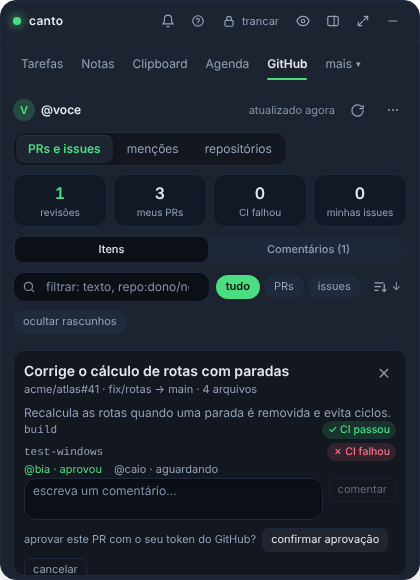
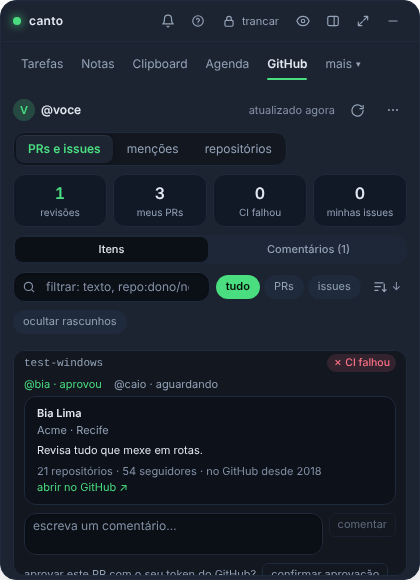
feat(github): perfil do autor e dos revisores no espiar
Claude-Session: https://claude.ai/code/session_01Cn6JQNpcvhqsGPNaPnYSfQ

Changed region(s): [[0.031, 0.6207, 0.9595, 0.9931], [0.7738, 0.5897, 0.9595, 0.6517], [0.8048, 0.8379, 0.9286, 0.869]]

diff --git a/src/features/forge/PrPeek.tsx b/src/features/forge/PrPeek.tsx
@@ -3,6 +3,7 @@ import { api, errText, type ForgeItem, type PrDetail, type PrReviewer } from "..
 import { t } from "../../i18n";
 import Skeleton from "../../components/Skeleton";
 import { CiPill } from "./ForgePills";
+import PersonCard from "./PersonCard";
 
 type Props = { item: ForgeItem; login: string; onClose: () => void };
 type Sent = "approve" | "comment";
@@ -23,6 +24,15 @@ export default function PrPeek({ item, login, onClose }: Props) {
   const [busy, setBusy] = useState(false);
   const [sent, setSent] = useState<Sent | null>(null);
   const [failed, setFailed] = useState("");
+  const [who, setWho] = useState<string | null>(null);
+  const person = (login: string, label: string) =>
+    login.endsWith("[bot]") ? (
+      <span>{label}</span>
+    ) : (
+      <button type="button" aria-pressed={who === login} aria-label={t("forge.peek.profileOf", { login })} onClick={() => setWho(who === login ? null : login)} className="canto-hit rounded-md hover:text-fg hover:underline">
+        {label}
+      </button>
+    );
 
   useEffect(() => {
     let live = true;
@@ -64,6 +74,7 @@ export default function PrPeek({ item, login, onClose }: Props) {
             {item.reference}
             {detail && ` · ${t("forge.peek.branches", { head: detail.head_branch, base: detail.base_branch })} · ${t("forge.peek.files", { n: detail.changed_files })}`}
           </p>
+          {item.author && <p className="m-0 text-[11px] text-muted">{t("forge.peek.by")} {person(item.author, `@${item.author}`)}</p>}
         </div>
         <button type="button" onClick={onClose} aria-label={t("forge.peek.close")} title={t("forge.peek.close")} className="canto-hit grid size-6 shrink-0 place-items-center rounded-md text-faint hover:text-fg">
           ✕
@@ -91,10 +102,11 @@ export default function PrPeek({ item, login, onClose }: Props) {
             {detail.reviewers.length === 0 && <li className="text-faint">{t("forge.peek.noReviewers")}</li>}
             {detail.reviewers.map((r) => (
               <li key={r.login} className={STATE[r.state].tone}>
-                @{r.login} · {t(STATE[r.state].label)}
+                {person(r.login, `@${r.login} · ${t(STATE[r.state].label)}`)}
               </li>
             ))}
           </ul>
+          {who && <PersonCard login={who} />}
           <div className="flex gap-1.5">
             <textarea
               value={text}

diff --git a/src/features/forge/PrPeek.test.tsx b/src/features/forge/PrPeek.test.tsx
@@ -121,3 +121,32 @@ test("a read-only token shows what to change and keeps the text", async () => {
   expect(within(panel).getByRole("alert").textContent).toContain("permissão de escrita");
   expect((within(panel).getByLabelText("comentário") as HTMLTextAreaElement).value).toBe("Oi");
 });
+
+test("the author and each reviewer open their profile card, and a second click closes it", async () => {
+  responses.github_profile = (args) =>
+    Promise.resolve({ login: String(args.login), name: `Nome de ${String(args.login)}`, bio: "", company: "Acme", location: "", public_repos: 3, followers: 1, since: 2020, url: `https://github.com/${String(args.login)}` });
+  const panel = await mount();
+  await act(async () => {
+    fireEvent.click(within(panel).getByRole("button", { name: "ver perfil de @ana" }));
+  });
+  for (let i = 0; i < 3; i++) await act(async () => {});
+  const card = within(panel).getByRole("region", { name: "perfil de @ana" });
+  expect(card.textContent).toContain("Nome de ana");
+  expect(card.querySelector("a")?.getAttribute("href")).toBe("https://github.com/ana");
+  await act(async () => {
+    fireEvent.click(within(panel).getByRole("button", { name: "ver perfil de @bia" }));
+  });
+  for (let i = 0; i < 3; i++) await act(async () => {});
+  expect(within(panel).queryByRole("region", { name: "perfil de @ana" })).toBeNull();
+  expect(within(panel).getByRole("region", { name: "perfil de @bia" })).toBeTruthy();
+  fireEvent.click(within(panel).getByRole("button", { name: "ver perfil de @bia" }));
+  expect(within(panel).queryByRole("region", { name: "perfil de @bia" })).toBeNull();
+});
+
+test("a bot is shown as plain text: it has no profile to open", async () => {
+  responses.github_pr_detail = () => Promise.resolve({ ...detail, reviewers: [{ login: "copilot[bot]", state: "approved" }] });
+  render(<PrPeek item={item} login="voce" onClose={() => {}} />);
+  for (let i = 0; i < 4; i++) await act(async () => {});
+  expect(screen.queryByRole("button", { name: /ver perfil de @copilot/ })).toBeNull();
+  expect(screen.getByText("@copilot[bot] · aprovou")).toBeTruthy();
+});

diff --git a/e2e/forgeextras.e2e.ts b/e2e/forgeextras.e2e.ts
@@ -125,13 +125,15 @@ test("espiar shows the PR details, and approving asks for a confirmation first",
       { login: "caio", state: "pending" },
     ],
   };
-  await mockTauri(page, { fixed: { ...fixed, github_pr_detail: detail, github_pr_review: null } });
+  await mockTauri(page, { fixed: { ...fixed, github_pr_detail: detail, github_pr_review: null, github_profile: { login: "bia", name: "Bia Lima", bio: "Revisa tudo que mexe em rotas.", company: "Acme", location: "Recife", public_repos: 21, followers: 54, since: 2018, url: "https://github.com/bia" } } });
   await page.goto("/");
   await goTab(page, "GitHub");
   await page.getByRole("button", { name: "espiar Corrige o cálculo de rotas com paradas" }).click();
   const panel = page.getByRole("region", { name: "detalhes do PR" });
   await expect(panel.getByText("fix/rotas → main")).toBeVisible();
   await expect(panel.getByText("@bia · aprovou")).toBeVisible();
+  await panel.getByRole("button", { name: "ver perfil de @bia" }).click();
+  await expect(panel.getByRole("region", { name: "perfil de @bia" }).getByText("Acme · Recife")).toBeVisible();
   await panel.getByRole("button", { name: "aprovar" }).click();
   await expect(panel.getByRole("button", { name: "confirmar aprovação" })).toBeVisible();
   if (process.env.SHOT) await panel.scrollIntoViewIfNeeded(), await page.screenshot({ path: process.env.SHOT });

diff --git a/src/i18n/es/integrations.ts b/src/i18n/es/integrations.ts
@@ -237,6 +237,8 @@ export const integrations: Record<keyof typeof source, string> = {
   "forge.person.facts": "{repos} repositorios · {followers} seguidores · en GitHub desde {year}",
   "forge.person.factsNoYear": "{repos} repositorios · {followers} seguidores",
   "forge.person.open": "abrir en GitHub ↗",
+  "forge.peek.by": "por",
+  "forge.peek.profileOf": "ver perfil de @{login}",
   "forge.snoozedShow": "{n} pospuestos",
   "forge.snoozedHide": "ocultar pospuestos",
   "forge.hideDrafts": "ocultar borradores",

diff --git a/src/i18n/en/integrations.ts b/src/i18n/en/integrations.ts
@@ -237,6 +237,8 @@ export const integrations: Record<keyof typeof source, string> = {
   "forge.person.facts": "{repos} repositories · {followers} followers · on GitHub since {year}",
   "forge.person.factsNoYear": "{repos} repositories · {followers} followers",
   "forge.person.open": "open on GitHub ↗",
+  "forge.peek.by": "by",
+  "forge.peek.profileOf": "show the profile of @{login}",
   "forge.snoozedShow": "{n} snoozed",
   "forge.snoozedHide": "hide snoozed",
   "forge.hideDrafts": "hide drafts",

diff --git a/src/i18n/pt-BR/integrations.ts b/src/i18n/pt-BR/integrations.ts
@@ -235,6 +235,8 @@ export const integrations = {
   "forge.person.facts": "{repos} repositórios · {followers} seguidores · no GitHub desde {year}",
   "forge.person.factsNoYear": "{repos} repositórios · {followers} seguidores",
   "forge.person.open": "abrir no GitHub ↗",
+  "forge.peek.by": "por",
+  "forge.peek.profileOf": "ver perfil de @{login}",
   "forge.snoozedShow": "{n} adiados",
   "forge.snoozedHide": "ocultar adiados",
   "forge.hideDrafts": "ocultar rascunhos",

diff --git a/CHANGELOG.md b/CHANGELOG.md
@@ -24,6 +24,7 @@ versões em [SemVer](https://semver.org/lang/pt-BR/).
 
 ### Adicionado
 
+- **GitHub: perfil também no “espiar”**: no painel do PR, o autor e cada revisor viram botões que abrem o cartão do perfil público (nome, empresa, cidade, bio, repositórios, seguidores) com o link para o GitHub. Bots não têm perfil para abrir.
 - **GitHub: perfil de quem comentou**: na aba Comentários, ao escolher uma pessoa aparece o cartão do perfil público dela (nome, empresa, cidade, bio, repositórios, seguidores e desde quando está no GitHub). Só leitura, só o perfil público, e bots não são consultados. GitLab não muda.
 - **GitHub: “avisar CI” e adiar por mais tempo**: num PR com CI rodando, o botão “avisar CI” (ao passar o mouse) faz o Canto mostrar um aviso quando o CI terminar, passando ou falhando, enquanto a aba GitHub estiver atualizando. Nas revisões pedidas, além de “adiar 4 h”, dá para adiar por 1 h, até amanhã às 8h ou por 1 semana.
 - **GitHub: “espiar” um PR, aprovar e comentar sem sair do widget**: o botão que aparece ao passar o mouse abre, sob as listas, a descrição, as branches, os jobs do CI e quem revisou. Dali dá para comentar e aprovar (com confirmação antes de enviar; seu próprio PR não mostra “aprovar”). É a única escrita do app no GitHub e só acontece quando você clica: precisa de um token com permissão de escrita em *Pull requests* (e *Issues*, para comentar); sem ela o Canto continua só leitura e avisa o que mudar. GitLab segue só leitura.
